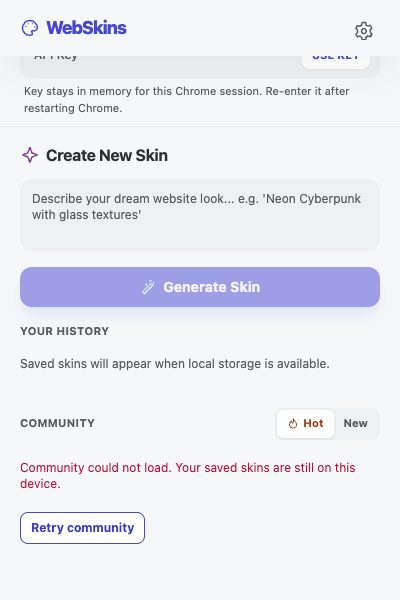
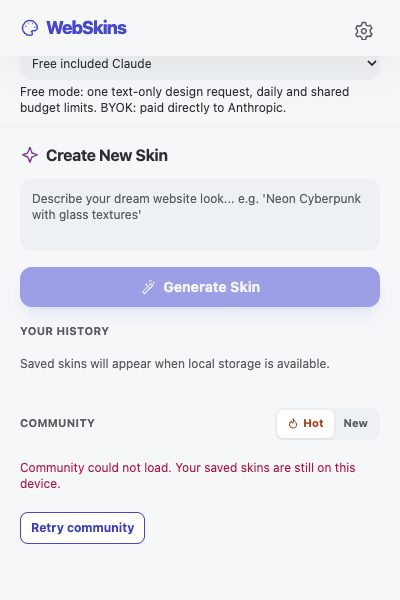
Prepare limited included Claude extension candidate with explicit BYOK recovery

Changed region(s): [[0.03, 0.12, 0.87, 0.21], [0.06, 0.09, 0.39, 0.12], [0.78, 0.09, 0.87, 0.12]]

diff --git a/backend/public/privacy.html b/backend/public/privacy.html
@@ -1,1 +1,1 @@
[2 lines of base64/hex data omitted]

diff --git a/backend/public/terms.html b/backend/public/terms.html
@@ -1,1 +1,1 @@
-<!doctype html><html lang="en"><head><meta charset="utf-8"><meta name="viewport" content="width=device-width,initial-scale=1"><title>WebSkins Terms</title><link rel="stylesheet" href="/website.css"></head><body><main><p class="brand">WebSkins</p><h1>Terms of use</h1><p>Updated October 31, 2026. WebSkins is operated by Nir Feinstein. These terms describe the extension, optional marketplace and this public website. Questions can be sent through <a href="/contact">Contact</a>.</p><section><h2>Free extension, your own API key</h2><p data-cost-mode>The extension and local skin features are free. AI generation requires your own Anthropic API key, and Anthropic bills your account for its usage. WebSkins has no subscription or checkout. You manage your API budget and limits with Anthropic; removing the key from WebSkins does not revoke it at Anthropic.</p></section><section><h2>Version and availability</h2><p>The Chrome Web Store shows the version available for installation. This website may describe a separately prepared update that has not been published. The <a href="/privacy">version-specific privacy policy</a> distinguishes those behaviors. Features and provider availability can change; no continuous availability or particular AI result is promised.</p></section><section><h2>Use and review</h2><p>Only process pages and information you are allowed to use. Review the requested page access before sending content to AI, and review generated CSS before applying it. Keep your API and publication-management keys private. Generated styles can make a page harder to read or use; remove the skin to restore the original appearance.</p></section><section><h2>Optional public sharing</h2><p>Publishing a skin is optional. Only share content you have permission to publish, and do not include private prompts, page details or personal data. Public skins can be viewed and saved by others. Retain the private management key needed to prove control of a publication; deleting a local copy does not remove its marketplace copy.</p></section><section><h2>Privacy, support and responsibility</h2><p>The <a href="/privacy">Privacy policy</a> explains AI transfers, local storage, public records, optional website analytics and contact handling. You are responsible for reviewing AI output and following the rules of the websites and providers you use. Nothing here removes rights or remedies that applicable law does not allow to be limited. Requests for help or removal can be made through <a href="/contact">Contact</a>; do not send secrets in email.</p></section><footer><a href="/">WebSkins home</a><a href="/contact">Contact</a><a href="/privacy">Privacy</a><a href="/terms">Terms</a></footer></main></body></html>
+<!doctype html><html lang="en"><head><meta charset="utf-8"><meta name="viewport" content="width=device-width,initial-scale=1"><title>WebSkins Terms</title><link rel="stylesheet" href="/website.css"></head><body><main><p class="brand">WebSkins</p><h1>Terms of use</h1><p>Updated October 31, 2026. WebSkins is operated by Nir Feinstein. These terms describe the extension, optional marketplace and this public website. Questions can be sent through <a href="/contact">Contact</a>.</p><section><h2>Free extension and Claude usage</h2><p data-cost-mode>The extension and local skin features are free. The current Store version requires your own Anthropic API key, billed by Anthropic. The separately prepared 1.0.7 update adds a limited free included-Claude option, subject to daily and shared budget availability, with optional direct BYOK. Included mode is one text-only design request; BYOK may make up to five paid requests with visual reviews. No free allowance or continuous availability is guaranteed. WebSkins has no subscription or checkout. You manage your API budget and limits with Anthropic; removing the key from WebSkins does not revoke it at Anthropic.</p></section><section><h2>Version and availability</h2><p>The Chrome Web Store shows the version available for installation. This website may describe a separately prepared update that has not been published. The <a href="/privacy">version-specific privacy policy</a> distinguishes those behaviors. Features and provider availability can change; no continuous availability or particular AI result is promised.</p></section><section><h2>Use and review</h2><p>Only process pages and information you are allowed to use. Review the requested page access before sending content to AI, and review generated CSS before applying it. Keep your API and publication-management keys private. Generated styles can make a page harder to read or use; remove the skin to restore the original appearance.</p></section><section><h2>Optional public sharing</h2><p>Publishing a skin is optional. Only share content you have permission to publish, and do not include private prompts, page details or personal data. Public skins can be viewed and saved by others. Retain the private management key needed to prove control of a publication; deleting a local copy does not remove its marketplace copy.</p></section><section><h2>Privacy, support and responsibility</h2><p>The <a href="/privacy">Privacy policy</a> explains AI transfers, local storage, public records, optional website analytics and contact handling. You are responsible for reviewing AI output and following the rules of the websites and providers you use. Nothing here removes rights or remedies that applicable law does not allow to be limited. Requests for help or removal can be made through <a href="/contact">Contact</a>; do not send secrets in email.</p></section><footer><a href="/">WebSkins home</a><a href="/contact">Contact</a><a href="/privacy">Privacy</a><a href="/terms">Terms</a></footer></main></body></html>

diff --git a/src/popup.js b/src/popup.js
@@ -1,6 +1,6 @@
 // WebSkins Popup — State Management & UI
 import {
-  getApiKey, setApiKey, getModel, setModel,
+  getApiKey, setApiKey, getModel, setModel, getAiMode, setAiMode,
   getSkinsForDomain,
   clearAllData, saveSkin,
 } from './utils/storage.js';
@@ -15,6 +15,7 @@ import {
 
 const state = {
   view: 'home', // 'home' | 'chat' | 'settings'
+  aiMode: 'included',
   apiKey: null,
   apiKeySet: false,
   model: 'claude-sonnet-5-5',
@@ -74,12 +75,13 @@ async function loadLocalState() {
   const results = await Promise.allSettled([
     getApiKey().then(key => {state.apiKey = key;state.apiKeySet = !!key;}),
     getModel().then(model => {state.model = model;}),
+    getAiMode().then(mode => {state.aiMode = mode;}),
     refreshSkins(),
     chrome.storage.local.get('webskins_voted').then(data => {state.votedSkins = new Set(data.webskins_voted || []);}),
   ]);
   state.localReady = results.every(result => result.status === 'fulfilled');
   document.getElementById('storage-error').classList.toggle('hidden', state.localReady);
-  document.getElementById('api-key-section').classList.toggle('hidden', state.apiKeySet);
+  document.getElementById('api-key-section').classList.toggle('hidden', state.apiKeySet || state.aiMode==='included');
   retry.disabled = false;
   retry.textContent = 'Retry local storage';
   render();
@@ -118,6 +120,10 @@ function render() {
   chatView.classList.toggle('hidden', state.view !== 'chat');
   settingsView.classList.toggle('hidden', state.view !== 'settings');
 
+  document.getElementById('ai-mode').value=state.aiMode;
+  document.getElementById('ai-mode').disabled=state.isGenerating;
+  document.getElementById('settings-ai-mode').value=state.aiMode;
+  document.getElementById('settings-ai-mode').disabled=state.isGenerating;
   if (state.view === 'home') renderHome();
   if (state.view === 'chat') renderChat();
   if (state.view === 'settings') renderSettings();
@@ -288,6 +294,10 @@ function renderSettings() {
 // ===== Event Listeners =====
 
 function setupEventListeners() {
+  for(const id of ['ai-mode','settings-ai-mode'])document.getElementById(id).addEventListener('change',async e=>{
+    try {await setAiMode(e.target.value);state.aiMode=e.target.value;await loadLocalState();}
+    catch {showStatus('Could not save AI mode. Retry local storage.','error');}
+  });
   document.getElementById('btn-retry-storage').addEventListener('click', loadLocalState);
   document.getElementById('btn-dismiss-status').addEventListener('click', () => document.getElementById('status-bar').classList.add('hidden'));
   // Navigation
@@ -452,7 +462,11 @@ async function ensureAiConsent() {
   const context=await sendToBackground({action:'get-ai-consent',tabId:state.tabId});
   if(context.error){showStatus(context.error,'error');return false;}
   if(context.granted)return true;
-  const approved=confirm(`Allow AI styling on ${context.origin}?\n\nRendered page text and layout (including content outside the viewport), your prompt, and up to four screenshots will be sent to Anthropic using ${state.model}. They can include private messages, photos or other information visible on the page.\n\nEach generation or refinement can make up to five paid API requests charged to your Anthropic account. Keep this tab active during visual reviews.\n\nAllow for this site? You can revoke access in Settings.`);
+  const included=context.mode==='included';
+  const approved=confirm(`Allow AI styling on ${context.origin}?\n\n${included
+    ? 'Free included Claude sends rendered page text/layout and your instruction through Nir’s shared Betterloop AI service to Anthropic Haiku 5.5. It makes one text-only request, with no screenshots or automatic reviews. Daily and shared budget limits apply; availability is not guaranteed. A random installation ID and a protected network identifier enforce limits.'
+    : `Your Claude key sends rendered page text/layout, your instruction and up to four screenshots directly to Anthropic using ${state.model}. Up to five requests can be charged to your Anthropic account.`}\n\nPage captures may include private messages or other visible content, including content outside the viewport. Only proceed on pages you are comfortable sharing. You can revoke access in Settings.\n\nAllow this mode for this site?`);
+
   if(!approved)return false;
   const result=await chrome.runtime.sendMessage({action:'record-ai-consent',tabId:state.tabId});
   if(result.error){showStatus(result.error,'error');return false;}
@@ -475,7 +489,7 @@ async function handleGenerate() {
     return;
   }
 
-  if (!state.apiKeySet) {
+  if (state.aiMode==='byok'&&!state.apiKeySet) {
     document.getElementById('api-key-section').classList.remove('hidden');
     showKeyStatus('api-key-status', 'Please enter your API key first', 'error');
     return;
@@ -658,6 +672,10 @@ function openSkinChat(skin) {
 
 function handleProgress(data) {
   state.progressMessage = data.message || '';
+  document.getElementById('ai-mode').value=state.aiMode;
+  document.getElementById('ai-mode').disabled=state.isGenerating;
+  document.getElementById('settings-ai-mode').value=state.aiMode;
+  document.getElementById('settings-ai-mode').disabled=state.isGenerating;
   if (state.view === 'home') renderHome();
   if (state.view === 'chat') renderChat();
 }

diff --git a/src/popup.html b/src/popup.html
@@ -45,6 +45,14 @@
       </div>
     </section>
 
+    <section class="px-5 py-2.5 border-b border-outline-variant/10">
+      <label for="ai-mode" class="text-xs font-bold block">Claude usage</label>
+      <select id="ai-mode" class="w-full bg-surface-container-low rounded-xl p-2 text-xs mt-1">
+        <option value="included">Free included Claude</option>
+        <option value="byok">My Claude key (BYOK)</option>
+      </select>
+      <p class="text-xs mt-1">Free mode: one text-only design request, daily and shared budget limits. BYOK: paid directly to Anthropic.</p>
+    </section>
     <!-- API Key Section -->
     <section id="api-key-section" class="px-5 py-2.5 border-b border-outline-variant/10">
       <div class="bg-surface-container-low rounded-xl p-2.5 flex gap-2 items-center">
@@ -142,6 +150,14 @@
         <h2 class="font-headline font-bold text-base tracking-tight">Settings</h2>
       </div>
       <div class="mb-5">
+        <label for="settings-ai-mode" class="text-xs font-bold block">Claude usage</label>
+        <select id="settings-ai-mode" class="w-full bg-surface-container-low rounded-xl p-2 text-xs mt-1">
+          <option value="included">Free included Claude</option>
+          <option value="byok">My Claude key (BYOK)</option>
+        </select>
+        <p class="text-xs mt-1">Included has daily and shared budget limits. Your key is optional and used only in BYOK mode.</p>
+      </div>
+      <div class="mb-5">
         <label for="settings-api-key" class="text-[10px] font-bold text-on-surface-variant tracking-wide block mb-1.5">API KEY</label>
         <div class="bg-surface-container-low rounded-xl p-2.5 flex gap-2 items-center">
           <input id="settings-api-key" class="w-full bg-transparent border-none text-xs focus:ring-0 focus:outline-none placeholder:text-on-surface-variant/50 font-medium px-1" placeholder="sk-ant-..." type="password" aria-label="Settings API Key">
@@ -159,7 +175,7 @@
             <option value="claude-opus-5-5">Claude Opus 5.5 (Advanced)</option>
           </select>
         </div>
-        <p class="text-[9px] text-on-surface-variant mt-1 px-1">Auto-improves until quality is great (up to 4 review cycles)</p>
+        <p class="text-[9px] text-on-surface-variant mt-1 px-1">BYOK only: up to 4 paid visual-review cycles. Free included mode uses Haiku 5.5 and no screenshots.</p>
       </div>
       <div class="mb-5">
         <label class="text-[10px] font-bold text-on-surface-variant tracking-wide block mb-1.5">DATA</label>
@@ -167,11 +183,11 @@
           Clear All Skins
         </button>
       </div>
-      <p class="text-xs px-1 mb-3">AI sends page text/layout and visual-review screenshots to Anthropic using your paid API key, up to five requests per generation or refinement. Local skins use system fonts; resource URLs and CSS variables are removed.</p>
+      <p class="text-xs px-1 mb-3">Included AI sends page text/layout and your instruction through Nir’s shared AI service to Anthropic in one limited request. BYOK sends directly to Anthropic and can use up to five paid requests with screenshots. Local skins use system fonts; resource URLs and CSS variables are removed.</p>
       <button id="btn-revoke-ai-access" class="w-full text-xs py-2">Revoke AI page access</button>
       <p class="text-center text-xs py-2"><a href="https://webskins-api-production.up.railway.app/privacy" target="_blank" rel="noopener noreferrer">Privacy policy</a></p>
       <div class="text-center py-3">
-        <p class="text-[9px] text-on-surface-variant">WebSkins v1.0.6 - Powered by Claude AI</p>
+        <p class="text-[9px] text-on-surface-variant">WebSkins v1.0.7 - Powered by Claude AI</p>
       </div>
     </div>
   </main>

diff --git a/src/background.js b/src/background.js
@@ -44,7 +44,7 @@ async function handleMessage(message, sender) {
       const controller=new AbortController();
       activeAbortControllers.set(message.tabId,controller);
       activePageContexts.set(message.tabId,context);
-      const request={...message,signal:controller.signal};
+      const request={...message,mode:context.mode,signal:controller.signal};
       try{return message.action==='generate-skin'?await handleGenerate(request):await handleChatRefine(request);}
       finally{activePageContexts.delete(message.tabId);activeAbortControllers.delete(message.tabId);}
     }
@@ -93,11 +93,11 @@ function friendlyError(err) {
 
 // ===== Generate Skin (Multi-Cycle) =====
 
-async function handleGenerate({ tabId, prompt, signal }) {
+async function handleGenerate({ tabId, prompt, mode, signal }) {
   if (!navigator.onLine) throw new Error('You appear to be offline. Please check your connection.');
 
-  const apiKey = await getApiKey();
-  if (!apiKey) throw new Error('API key not set');
+  const apiKey = mode==='byok' ? await getApiKey() : null;
+  if (mode==='byok'&&!apiKey) throw new Error('Enter your own Claude key in Settings, or choose the free allowance.');
 
   const model = await getModel();
 
@@ -120,7 +120,7 @@ async function handleGenerate({ tabId, prompt, signal }) {
 
   // Apply CSS to page
   await sendToTab(tabId, { action: 'apply-css', css: result.css });
-  broadcastProgress(tabId, { stage: 'applied', cycle: 1, totalCycles: '?', message: 'Initial skin applied — reviewing...' });
+  broadcastProgress(tabId, { stage: 'applied', cycle: 1, totalCycles: '?', message: 'Initial skin applied.' });
 
   let currentCss = result.css;
   let currentName = result.name || 'Custom Skin';
@@ -129,7 +129,7 @@ async function handleGenerate({ tabId, prompt, signal }) {
   let lastQuality = 0;
 
   // Dynamic improvement: keep going until quality >= MIN_QUALITY or MAX_CYCLES hit
-  for (let i = 0; i < MAX_CYCLES; i++) {
+  for (let i = 0; i < (mode==='byok'?MAX_CYCLES:0); i++) {
     const cycleNum = i + 2;
     broadcastProgress(tabId, {
       stage: 'improving',
@@ -231,11 +231,11 @@ async function handleGenerate({ tabId, prompt, signal }) {
 
 // ===== Chat Refine =====
 
-async function handleChatRefine({ tabId, skinId, domain, message: userMessage, chatHistory, signal }) {
+async function handleChatRefine({ tabId, skinId, domain, message: userMessage, chatHistory, mode, signal }) {
   if (!navigator.onLine) throw new Error('You appear to be offline. Please check your connection.');
 
-  const apiKey = await getApiKey();
-  if (!apiKey) throw new Error('API key not set');
+  const apiKey = mode==='byok' ? await getApiKey() : null;
+  if (mode==='byok'&&!apiKey) throw new Error('Enter your own Claude key in Settings, or choose the free allowance.');
 
   const model = await getModel();
 
@@ -259,10 +259,10 @@ async function handleChatRefine({ tabId, skinId, domain, message: userMessage, c
   let suggestions = result.suggestions || [];
 
   await sendToTab(tabId, { action: 'apply-css', css: currentCss });
-  broadcastProgress(tabId, { stage: 'applied', message: 'Applied — reviewing for improvements...' });
+  broadcastProgress(tabId, { stage: 'applied', message: 'Design applied.' });
 
   // Multi-cycle improvement: screenshot → evaluate → improve
-  for (let i = 0; i < MAX_CYCLES; i++) {
+  for (let i = 0; i < (mode==='byok'?MAX_CYCLES:0); i++) {
     const cycleNum = i + 1;
     broadcastProgress(tabId, {
       stage: 'improving',

diff --git a/src/utils/claude-api.js b/src/utils/claude-api.js
@@ -1,3 +1,4 @@
+import {getAiActor} from './storage.js';
 // Claude Messages API wrapper for WebSkins
 
 const API_URL = 'https://api.anthropic.com/v1/messages';
@@ -87,6 +88,7 @@ QUALITY SCORING:
 The CSS MUST be COMPLETE — it replaces ALL previous CSS. Include everything that works plus your fixes. Aim for 50-150+ rules for thorough coverage.`;
 
 export async function generateSkin(apiKey, model, pageStructure, prompt, existingCss, signal) {
+  if(!apiKey)return includedSkin(pageStructure,prompt,existingCss,signal);
   const messages = [];
 
   let userContent = `Here is the simplified HTML structure of the current webpage:\n\n${pageStructure}\n\n`;
@@ -138,6 +140,10 @@ Review the screenshot above. Find EVERY visual issue and produce an improved, CO
 }
 
 export async function chatRefine(apiKey, model, pageStructure, chatHistory, newMessage, signal) {
+  if(!apiKey) {
+    const current=[...chatHistory].reverse().find(m=>m.skinData?.css)?.skinData?.css || '';
+    return includedSkin(pageStructure,newMessage,current,signal);
+  }
   const messages = [];
 
   // Build conversation from history — skip system messages and the last user message
@@ -245,4 +251,29 @@ async function callClaude(apiKey, model, systemPrompt, messages, signal) {
     }
     throw new Error('Failed to parse AI response as JSON');
   }
+}
+
+export async function includedSkin(context,instruction,css,signal) {
+  if(typeof context!=='string'||typeof instruction!=='string')throw new Error('Page context is unavailable. Refresh this page and try again.');
+  if(new TextEncoder().encode(context).length>24576)throw new Error('This page is too large for the free allowance. Choose your own Claude key in Settings.');
+  if(css&&new TextEncoder().encode(css).length>16384)throw new Error('This saved design is too large for a free refinement. Choose your own Claude key in Settings.');
+  const body={version:1,app:'webskins',feature:'css',request_id:crypto.randomUUID(),actor:await getAiActor(),
+    input:{instruction,context,...(css?{css}:{})}};
+  // One deliberate request. A lost response must never start a second provider call.
+  const response=await fetch('https://betterloopai.com/api/claude/v1/complete',{
+    method:'POST',credentials:'omit',redirect:'error',headers:{'Content-Type':'application/json'},body:JSON.stringify(body),signal});
+  const data=await response.json().catch(()=>null);
+  if(!response.ok||!data?.ok) {
+    const code=data?.error?.code;
+    if(code==='quota_exhausted')throw new Error('Free allowance used up. Try later or choose your own Claude key in Settings.');
+    if(response.status===409||response.status===504)throw new Error('The request outcome is uncertain. No automatic retry was made.');
+    throw new Error('Included Claude is unavailable. Try later or choose your own Claude key in Settings.');
+  }
+  if(data.stop_reason!=='end_turn')throw new Error('The design was incomplete. Your saved skin was preserved. Try a smaller change.');
+  const text=(data.content||[]).filter(b=>b.type==='text').map(b=>b.text).join('');
+  try {
+    const parsed=JSON.parse(text.replace(/^```(?:json)?\s*/,'').replace(/\s*```$/,''));
+    if(typeof parsed.css!=='string'||!parsed.css.trim())throw new Error();
+    return parsed;
+  }catch {throw new Error('Claude did not return a complete design. Your saved skin was preserved.');}
 }

diff --git a/backend/public/index.html b/backend/public/index.html
@@ -2,7 +2,7 @@
 <html lang="en"><head><meta charset="utf-8"><meta name="viewport" content="width=device-width,initial-scale=1"><meta name="description" content="Give a website a new look with WebSkins for Chrome. Describe a style, preview generated CSS and keep your original page content."><title>WebSkins - make the web feel like yours</title><link rel="stylesheet" href="/website.css"><script defer src="/analytics.js"></script></head>
 <body><main>
 <p class="brand">WebSkins</p><h1>Make the web feel like yours.</h1><p class="lead">Describe the look you want, preview a website skin and save it for next time. Your page content stays in place.</p>
-<p data-cost-mode><strong>Free extension · Bring your own key.</strong> Use your own Anthropic API key; Anthropic bills AI usage separately. There is no WebSkins subscription.</p>
+<p data-cost-mode><strong>Free extension · Bring your own key.</strong> Use your own Anthropic API key; Anthropic bills AI usage separately. There is no WebSkins subscription. A separately prepared 1.0.7 update adds limited free included Claude and optional BYOK; it is not yet published in the Store.</p>
 <a class="primary" data-analytics-event="store_opened" href="https://chromewebstore.google.com/detail/webskins/fdjggaobnbpmajhobbcedeonbgmolala" rel="noreferrer">View WebSkins in the Chrome Web Store</a>
 <p class="note">This page describes the prepared update. The Store page shows the currently published version. The updated release is prepared separately and is awaiting publication; installing from the Store does not install that unpublished update.</p>
 <section aria-labelledby="how"><h2 id="how">A look you choose</h2><div class="features"><article><h3>Describe a style</h3><p>Use your own Anthropic API key to ask for a different colour scheme, spacing or visual style. AI requests are billed by Anthropic.</p></article><article><h3>Preview and refine</h3><p>Review the generated CSS and refine the result with a follow-up request. Applying or removing a saved skin does not require AI.</p></article><article><h3>Keep control</h3><p>Choose which website origins may send page captures to AI, manage saved skins and remove the applied style when you want.</p></article></div></section>

diff --git a/src/utils/privacy.js b/src/utils/privacy.js
@@ -1,15 +1,16 @@
-const CONSENTS='webskins_ai_consents_v2';
+import {getAiMode} from './storage.js';
+const CONSENTS='webskins_ai_consents_v3';
 const LEGACY_CONSENTS='webskins_ai_consents_v1';
 export async function aiConsent(tabId) {
   const tab=await chrome.tabs.get(tabId),url=new URL(tab.url);
   if(!['http:','https:'].includes(url.protocol))throw new Error('AI generation works on regular web pages only');
-  const saved=await chrome.storage.local.get(CONSENTS);
-  return {origin:url.origin,url:tab.url,granted:saved[CONSENTS]?.[url.origin]===true};
+  const mode=await getAiMode(),saved=await chrome.storage.local.get(CONSENTS);
+  return {origin:url.origin,url:tab.url,mode,granted:saved[CONSENTS]?.[url.origin+'|'+mode]===true};
 }
 export async function recordAiConsent(tabId) {
   const context=await aiConsent(tabId),saved=await chrome.storage.local.get(CONSENTS);
-  await chrome.storage.local.set({[CONSENTS]:{...(saved[CONSENTS]??{}),[context.origin]:true}});
-  await chrome.storage.local.remove(LEGACY_CONSENTS);
+  await chrome.storage.local.set({[CONSENTS]:{...(saved[CONSENTS]??{}),[context.origin+'|'+context.mode]:true}});
+  await chrome.storage.local.remove([LEGACY_CONSENTS,'webskins_ai_consents_v2']);
   return {granted:true,origin:context.origin};
 }
 export async function requireAiConsent(tabId) {
@@ -17,4 +18,4 @@ export async function requireAiConsent(tabId) {
   if(!context.granted)throw new Error('Allow sharing this site with Anthropic before generating');
   return context;
 }
-export async function revokeAiConsent(){await chrome.storage.local.remove([CONSENTS,LEGACY_CONSENTS]);}
+export async function revokeAiConsent(){await chrome.storage.local.remove([CONSENTS,LEGACY_CONSENTS,'webskins_ai_consents_v2']);}

diff --git a/src/utils/storage.js b/src/utils/storage.js
@@ -127,3 +127,21 @@ export async function clearAllData() {
 export function generateId() {
   return Date.now().toString(36) + Math.random().toString(36).substring(2, 8);
 }
+
+// Included allowance is independent of a visitor's optional provider key.
+export async function getAiMode() {
+  const value=(await chrome.storage.local.get('webskins_ai_mode')).webskins_ai_mode;
+  return value==='byok'?'byok':'included';
+}
+export async function setAiMode(mode) {
+  if(!['included','byok'].includes(mode))throw new Error('Choose an AI mode');
+  await chrome.storage.local.set({webskins_ai_mode:mode});
+}
+export async function getAiActor() {
+  const key='webskins_ai_actor';
+  const saved=(await chrome.storage.local.get(key))[key];
+  if(typeof saved==='string'&&/^[0-9a-f]{8}-[0-9a-f]{4}-4[0-9a-f]{3}-[89ab][0-9a-f]{3}-[0-9a-f]{12}$/.test(saved))return saved;
+  const actor=crypto.randomUUID();
+  await chrome.storage.local.set({[key]:actor});
+  return actor;
+}

diff --git a/PRIVACY.md b/PRIVACY.md
@@ -4,7 +4,7 @@ Last updated: October 31, 2026
 
 ## Purpose and AI consent
 
-WebSkins changes website appearance with CSS. Applying or removing a saved skin does not require AI. Before AI use on each website origin, WebSkins asks for permission to send rendered page text and layout (which can include content outside the current viewport), your design prompt, and visual-review screenshots to Anthropic. Those captures may include private messages, photos or other information visible on the page. Settings can revoke this page access. Each generation or refinement can make up to five paid requests using your Anthropic account.
+WebSkins changes website appearance with CSS. Applying or removing a saved skin does not require AI. Before AI use on each website origin, WebSkins asks for permission to send rendered page text and layout (which can include content outside the current viewport), your design prompt, and visual-review screenshots to Anthropic. Those captures may include private messages, photos or other information visible on the page. Settings can revoke this page access. Starting with version 1.0.7, choose Free included Claude or My Claude key (BYOK). A new per-site consent is required for each mode. Included mode sends bounded page text/layout and your instruction through Nir’s shared Betterloop AI service to Anthropic Haiku 5.5. It makes one text-only request, with no screenshots or automatic reviews. BYOK sends directly to Anthropic and can make up to five paid requests using your Anthropic account. Included availability is limited by daily installation/network limits and a shared operator budget; it is not guaranteed and no payment is taken when it is exhausted.
 
 ## Anthropic API key
 
@@ -12,13 +12,13 @@ Starting with version 1.0.4, the API key uses session-only Chrome storage restri
 
 Earlier versions stored the key in Chrome local extension storage. When version 1.0.4 first loads the key, it migrates that value into session storage and removes the local copy only after verifying the session copy. If migration fails, it preserves the original value and does not return it for an AI request. Removing the key clears both copies.
 
-Your key is sent directly to Anthropic to authenticate your requests. It is not sent to the WebSkins marketplace server. Anthropic's own data-handling policies apply to the prompts, page captures and screenshots it receives.
+When BYOK is selected, your key is sent directly to Anthropic to authenticate your requests. It is not sent to the WebSkins marketplace server. Anthropic's own data-handling policies apply to the prompts, page captures and screenshots it receives.
 
 ## Data on your device
 
 Version 1.0.5 excludes hidden elements and form-control text/values from DOM capture. Captures are bounded to 500 nodes, eight levels and 30,000 characters to limit unnecessary data and provider input. Visual-review screenshots can still include information visible on the active page.
 
-Chrome local extension storage retains your model and skin preferences, saved CSS skins, design prompts and chat history, per-origin consent choices, marketplace votes, a random author identifier, and private publication-management keys. Saved local data is not a secure vault. Protect access to your browser profile. Raw captured page layout and screenshots are used during AI processing; WebSkins does not intentionally save those raw captures as a local history.
+Chrome local extension storage retains your model and skin preferences, saved CSS skins, design prompts and chat history, per-origin consent choices, marketplace votes, a random author identifier, and private publication-management keys. Saved local data is not a secure vault. Protect access to your browser profile. A random installation identifier is also retained locally for included-AI quotas. It is a quota hint, not verified identity. Raw captured page layout and screenshots are used during AI processing; WebSkins does not intentionally save those raw captures as a local history.
 
 ## Public marketplace
 
@@ -29,6 +29,8 @@ Publishing is optional and has a separate confirmation. A published skin can exp
 The marketplace receives a private management key for each publication and retains only its hash for ownership verification. The extension keeps the private management key locally. A public author ID or display name does not prove ownership. Older publications without this proof require independent operator review for removal.
 
 ## Network information and retention
+
+Marketplace and included-AI requests include the network information needed to handle an HTTP request. The shared AI service retains protected installation/network identifiers, request identifiers and usage/reservation amounts to enforce limits and prevent duplicate provider work. Prompt/result content is not logged or stored in plaintext; completed included results have encrypted recovery access for one hour to recover a lost response; expired ciphertext is deleted opportunistically and may remain in routine recovery copies until those rotate. Unknown provider outcomes retain a reservation and are never automatically reissued. No provider key is included in the extension for free mode.
 
 Marketplace requests include the network information needed to handle an HTTP request. The server uses secret-keyed HMAC network identifiers for abuse prevention, daily quotas and deduplicated like/install counts. Old metric rows are pruned after 90 days when the service starts. Counts are usage metrics, not verified unique people.
 

diff --git a/readiness/claude-beta.md b/readiness/claude-beta.md
@@ -1,0 +1,9 @@
+# Limited included Claude candidate
+
+Owner-authorized October31. Candidate1.0.7 adds explicit Free included Claude / My Claude key choices on Home and Settings. Included mode sends one bounded text-only CSS request through the existing shared service, has no embedded owner key, screenshots, automatic reviews, direct-provider fallback or automatic retry. Existing BYOK still goes directly to Anthropic with its session-only key and current model/review options. A previous BYOK consent cannot authorize the included path; per-site approvals are separated by mode and version.
+
+Source:25 cases pass (`qa/claude-source.log`), including privacy, cancellation, malicious CSS, included payload/destination/bounds, exhaustion, uncertainty and per-mode consent. Actual compiled400x600 popup acceptance passes free generation without entering a key, a single deliberate dispatch, visible exhaustion, Settings BYOK recovery, keyboard/apply/remove/save/reload/loading/storage errors and minimum text contrast5.31 with no uncaught error or unexpected request (`qa/claude-popup.log`, screenshots `qa/popup/`). These use intercepted providers and synthetic Chrome APIs; they are not installed-extension or real-model acceptance.
+
+Actual existing backend Home/Privacy/Terms/Contact render at375/1440 without overflow/errors/provider events or message writes (`qa/contact-cost-ui.log`). Public copy distinguishes the current Store BYOK release from the unpublished1.0.7 offer. Candidate packaging preserves accepted installed `dist`1.0.5 and the previous1.0.6 ZIP: `npm run build:candidate && npm run package:candidate` writes only `candidate-dist` and `release/webskins-1.0.7.zip`.
+
+Next: after gateway acceptance/activation, verify a genuine included design/refinement/cancel on an owned safe page in the actual installed candidate. Store developer-console automation remains forbidden; the owner must load/submit the final accepted candidate. Do not repeat the earlier pending upload request or claim publication. Update the existing owner guide to the accepted1.0.7 package only after real included acceptance. Website rollout may publish the prospective version-specific privacy text without claiming Store availability.

diff --git a/READINESS.md b/READINESS.md
@@ -51,3 +51,12 @@ Every row serves [GOAL.md](GOAL.md) and portfolio PT07. Done is verified, cut, o
 |---|---|---|---|
 | E1 | Discover Contact, Privacy and Terms with clear Free/BYOK costs | verified | Website-only backend release is SUCCESS; exact live assets/health/backup and actual four-page375/1440 UI pass. [Acceptance](readiness/contact-email-costs.md); installed/Store packages unchanged |
 | E2 | Contact form emails the owner with a safe reply path and truthful failures | verified | Actual phone form200 → GmailINBOX with exact visitor Reply-To; mock375/1440 failure/retry/idempotency/edits/no-JS checks pass. [Acceptance](readiness/contact-email-costs.md); no new key/account |
+
+## Claude launch offer - October31
+
+| ID | Flow / gate | Status | Evidence / next action |
+|---|---|---|---|
+| C1 | Choose limited included Claude or optional direct BYOK without leaking a key | building (Codex) | Separate1.0.7 candidate; existing installed1.0.5/dist and1.0.6 archive retained |
+| C2 | New per-mode/site consent, no screenshots or automatic review in included mode | building (Codex) | Single fixed-task request, no direct owner-key fallback; source/cancellation checks |
+| C3 | Compiled popup success, exhaustion, cancel and settings recovery | verified | Actual400x600 candidate included/no-key, quota and BYOK recovery pass; [candidate](readiness/claude-beta.md). Genuine installed check remains |
+| C4 | Live included AI and updated Store distribution | todo | Existing shared gateway acceptance first; Store console remains owner-only |
